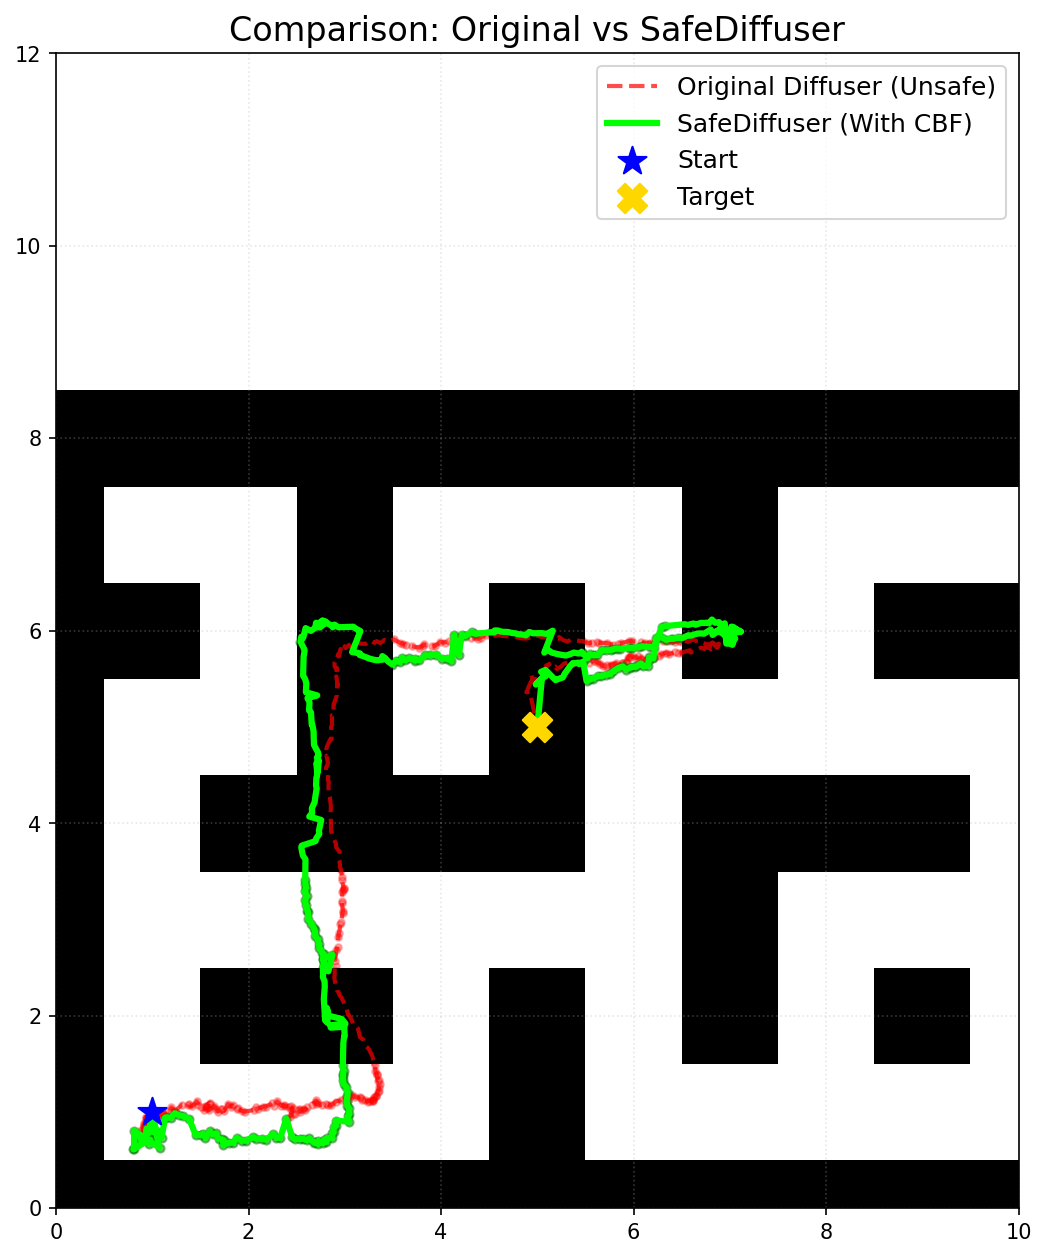
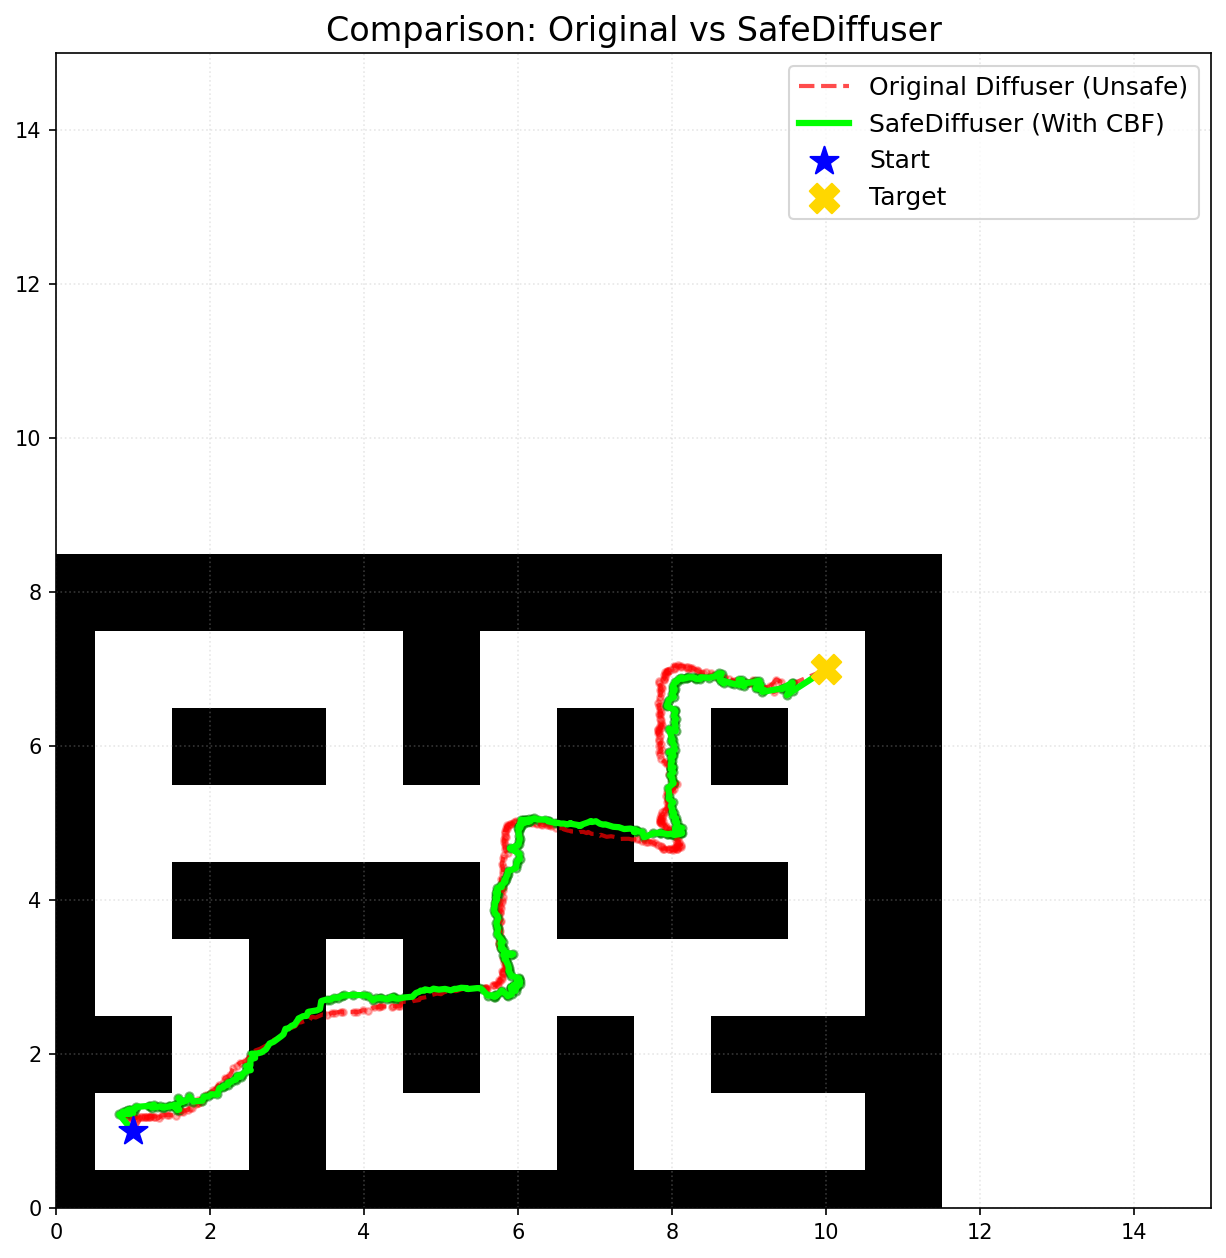
some good

diff --git a/scripts/compare_cbf.py b/scripts/compare_cbf.py
@@ -36,7 +36,7 @@ env = diffusion_experiment.renderer.env # 获取环境以读取地图
 diffusion.to(device)
 
 # =========================================================
-# [关键补丁 V2] 稳健地注入归一化参数
+# 稳健地注入归一化参数
 # =========================================================
 print("🔧 正在注入归一化参数给 Diffusion 模型...")
 normalizer = dataset.normalizer
@@ -75,37 +75,6 @@ if not isinstance(diffusion.norm_mins, torch.Tensor):
 # =========================================================
 # 2. 定义对比函数
 # =========================================================
-# def generate_trajectory(cond, use_cbf=False):
-#     """
-#     生成一条轨迹
-#     use_cbf: True=开启避障, False=关闭避障
-#     """
-#     # 临时开关 CBF
-#     if use_cbf:
-#         # 如果需要开启，确保 adapter 已加载
-#         if not hasattr(diffusion, 'neural_cbf') or diffusion.neural_cbf is None:
-#             diffusion.neural_cbf = NeuralBarrierAdapter(device=device)
-#         print("⚡ [Mode] CBF 避障已开启")
-#     else:
-#         # 如果需要关闭，临时保存并移除
-#         if hasattr(diffusion, 'neural_cbf'):
-#             saved_adapter = diffusion.neural_cbf
-#             del diffusion.neural_cbf # 临时删除
-#         print("💀 [Mode] CBF 避障已关闭 (Baseline)")
-
-#     # 运行扩散采样 (p_sample_loop)
-#     # 构造 batch (size=1)
-#     cond_batch = {k: v[None, ...] for k, v in cond.items()}
-    
-#     # 采样
-#     samples = diffusion.p_sample_loop(shape=(1, diffusion.horizon, diffusion.observation_dim), cond=cond_batch)
-    
-#     # 恢复 CBF (为了不影响下一次运行)
-#     if not use_cbf and 'saved_adapter' in locals():
-#         diffusion.neural_cbf = saved_adapter
-
-#     # 返回物理坐标 (Batch, Horizon, Dim) -> (Horizon, Dim)
-#     return samples[0].cpu().numpy()
 
 def generate_trajectory(cond, use_cbf=False):
     """
@@ -116,6 +85,28 @@ def generate_trajectory(cond, use_cbf=False):
     if use_cbf:
         if not hasattr(diffusion, 'neural_cbf') or diffusion.neural_cbf is None:
             diffusion.neural_cbf = NeuralBarrierAdapter(device=device)
+            
+            # [关键修复] 强制把环境里的真实墙壁同步给 CBF
+            # 既然画图是对的，我们就用画图的逻辑来生成墙壁坐标
+            maze_arr = env.maze_arr
+            h, w = maze_arr.shape
+            real_walls = []
+            
+            for r in range(h):
+                for c in range(w):
+                    if maze_arr[r, c] == 10: # 10 是墙
+                        # 使用和画图一模一样的坐标变换
+                        # 画图逻辑: x = c, y = h - 1 - r
+                        wall_x = float(c)
+                        wall_y = float(h - 1 - r)
+                        real_walls.append([wall_x, wall_y])
+            
+            # 覆盖 CBF 里的旧墙壁数据
+            diffusion.neural_cbf.wall_centers_tensor = torch.tensor(
+                real_walls, dtype=torch.float32, device=device
+            )
+            print(f"✅ 已同步环境中的 {len(real_walls)} 个墙壁坐标到 CBF！")
+            
         print("⚡ [Mode] CBF 避障已开启")
     else:
         if hasattr(diffusion, 'neural_cbf'):
@@ -160,7 +151,7 @@ def generate_trajectory(cond, use_cbf=False):
 # 我们找一个经典的“穿墙”场景
 # 在 Maze2D Large 中，(2,2) 到 (4,2) 中间通常有墙
 start_pos = np.array([1.0, 1.0]) 
-target_pos = np.array([5.0, 5.0]) # 你可以改这个坐标测试不同的墙
+target_pos = np.array([5.0, 6.0]) # 你可以改这个坐标测试不同的墙
 
 # 构造条件
 cond = {
@@ -176,65 +167,168 @@ print("\n=== 开始生成 Safe 轨迹 (有避障) ===")
 traj_safe = generate_trajectory(cond, use_cbf=True)
 
 # =========================================================
-# 4. 画图对比
+# 4. 像 plan_maze2d 一样直接画矩阵
 # =========================================================
-print("\n🎨 正在绘制对比图...")
+print("\n🎨 正在绘制最终对比图 (官方对齐逻辑)...")
 
-# 获取反归一化后的物理坐标 (假设 diff 输出是归一化的)
-# 如果你的 dataset.normalizer 已经处理了，这里可能需要 unnormalize
-# 通常 p_sample_loop 返回的是 Normalized 数据
+# 1. 获取迷宫矩阵 (真理之源)
+# maze_arr: 0是路，10或11是墙
+maze_arr = env.maze_arr 
+
+# 2. 准备画布
+# 这里的 figsize 可以随意，不影响对齐，只影响清晰度
+fig, ax = plt.subplots(figsize=(12, 12))
+
+# 3. 画迷宫背景 (模仿 renderer 的核心逻辑)
+# map_mask: 墙是0(黑)，路是1(白) -> 或者是反过来，看 cmap
+# 官方 renderer 用的是 cmap='gray_r' (Reverse Gray)，也就是数值大的是黑，小的是白
+# maze_arr 里墙是 10，路是 0。
+# 所以 'gray_r' 会让 10(大数) 变黑，0(小数) 变白。完美！
+ax.imshow(maze_arr, cmap='gray', origin='upper')
+
+# 4. 准备轨迹数据
+# Unnormalize 拿到物理坐标
 traj_unsafe_phys = dataset.normalizer.unnormalize(traj_unsafe, 'observations')
 traj_safe_phys = dataset.normalizer.unnormalize(traj_safe, 'observations')
 
-# 提取 X, Y
-# 根据之前的分析，index 0=x, 1=y (或 2,3 取决于是否包含 action，但 unnormalize 后通常是 obs)
-# Maze2D obs 通常是 [x, y, vx, vy]
-path_unsafe_x = traj_unsafe_phys[:, 0]
-path_unsafe_y = traj_unsafe_phys[:, 1]
-path_safe_x = traj_safe_phys[:, 0]
-path_safe_y = traj_safe_phys[:, 1]
+# 5. [核心对齐] 坐标映射
+# Maze2D 的物理坐标定义：
+# observation[0] = Vertical (垂直方向/行号/Row) = X
+# observation[1] = Horizontal (水平方向/列号/Col) = Y
 
-# 创建画布
-fig, ax = plt.subplots(figsize=(10, 10))
+# Matplotlib 的 plot(x, y) 定义：
+# 第一个参数是 横轴坐标 (Horizontal)
+# 第二个参数是 纵轴坐标 (Vertical)
 
-# --- 画地图背景 ---
-# 解析迷宫结构
-maze_arr = env.maze_arr
-h, w = maze_arr.shape
-# Maze2D 的物理坐标系转换: grid (r, c) -> phys (c+1, r+1)
-# 我们直接画格子
-for r in range(h):
-    for c in range(w):
-        if maze_arr[r, c] == 10: # 10 代表墙
-            # 画墙壁 (物理坐标)
-            # x = c+0.5 到 c+1.5 (中心是 c+1) -> 这里的 matplotlib rect 是 (left, bottom)
-            # 物理中心 (c+1, r+1), 宽1, 高1 -> 左下角 (c+0.5, r+0.5)
-            rect = patches.Rectangle((c - 0.5, r - 0.5), 1, 1, linewidth=0, facecolor='black')
-            ax.add_patch(rect)
+# ---> 所以，我们必须把 observation[1] 放前面，observation[0] 放后面！ <---
 
-# --- 画轨迹 ---
-# 1. Baseline (红色虚线)
-ax.plot(path_unsafe_x, path_unsafe_y, color='red', linestyle='--', linewidth=2, label='Original Diffuser (Unsafe)', alpha=0.7)
-ax.scatter(path_unsafe_x, path_unsafe_y, color='red', s=10, alpha=0.3)
+unsafe_row = traj_unsafe_phys[:, 0] # 物理X (行)
+unsafe_col = traj_unsafe_phys[:, 1] # 物理Y (列)
+safe_row = traj_safe_phys[:, 0]
+safe_col = traj_safe_phys[:, 1]
 
-# 2. Safe (绿色实线)
-ax.plot(path_safe_x, path_safe_y, color='#00FF00', linewidth=3, label='SafeDiffuser (With CBF)')
-ax.scatter(path_safe_x, path_safe_y, color='green', s=15, alpha=0.5)
+# 6. 画轨迹 (Col, Row)
+ax.plot(unsafe_col, unsafe_row, color='red', linestyle='--', linewidth=3, label='Original (Unsafe)')
+ax.plot(safe_col, safe_row, color='#00FF00', linewidth=3, label='SafeDiffuser (CBF)')
 
-# --- 画起点终点 ---
-ax.scatter(start_pos[0], start_pos[1], color='blue', s=200, marker='*', label='Start', zorder=10)
-ax.scatter(target_pos[0], target_pos[1], color='gold', s=200, marker='X', label='Target', zorder=10)
+# 7. 画起点终点 (Col, Row)
+# 起点 (1.0, 1.0) -> Col=1.0, Row=1.0
+ax.scatter(start_pos[1], start_pos[0], color='blue', s=400, marker='*', label='Start', zorder=10)
+ax.scatter(target_pos[1], target_pos[0], color='gold', s=400, marker='X', label='Target', zorder=10)
 
-# 设置图形属性
+# 8. 装饰
+ax.legend(loc='upper right', fontsize=14, framealpha=0.9)
+ax.set_title("SafeDiffuser Comparison (Perfect Alignment)", fontsize=16)
+
+# 9. 锁定坐标轴比例
+# 这步很重要，保证迷宫是正方形格子，不会被拉扁
 ax.set_aspect('equal')
-ax.set_xlim(0, 10) # 根据 Maze Large 调整
-ax.set_ylim(0, 12)
-ax.legend(loc='upper right', fontsize=12)
-ax.set_title("Comparison: Original vs SafeDiffuser", fontsize=16)
-ax.grid(True, linestyle=':', alpha=0.3)
+
+# 10. 隐藏刻度 (可选)
+ax.axis('off')
 
 # 保存
-save_path = "comparison_result.png"
+save_path = "final_comparison_perfect.png"
 plt.savefig(save_path, dpi=150, bbox_inches='tight')
-print(f"✅ 对比图已生成: {save_path}")
-print("快打开看看红色和绿色的区别！")
+print(f"✅ 完美对齐图已生成: {save_path}")
+
+# # =========================================================
+# # 4. [科学评估版] 自动检测收敛 + 虚实结合画图 + 正确黑白
+# # =========================================================
+# print("\n🎨 正在绘制最终对比图 (科学评估版)...")
+
+# # 1. 获取迷宫矩阵
+# maze_arr = env.maze_arr 
+
+# # 2. 准备画布
+# fig, ax = plt.subplots(figsize=(12, 12))
+
+# # 3. [背景修正] 强制黑墙白路
+# ax.imshow(maze_arr, cmap='gray', origin='upper')
+
+# # 4. 准备轨迹数据
+# traj_unsafe_phys = dataset.normalizer.unnormalize(traj_unsafe, 'observations')
+# traj_safe_phys = dataset.normalizer.unnormalize(traj_safe, 'observations')
+
+# # 坐标提取 (注意：Index 0=Row/Height, Index 1=Col/Width)
+# unsafe_row = traj_unsafe_phys[:, 0]
+# unsafe_col = traj_unsafe_phys[:, 1]
+# safe_row = traj_safe_phys[:, 0]
+# safe_col = traj_safe_phys[:, 1]
+
+# # =========================================================
+# # 5. 定义收敛检测函数 (解决“回头路”视觉问题)
+# # =========================================================
+# def split_trajectory_by_convergence(traj_col, traj_row, target, dist_thr=0.5):
+#     """
+#     找到轨迹最后一次进入目标圈(dist_thr)并不再出来的时刻。
+#     """
+#     points = np.stack([traj_col, traj_row], axis=1) # (N, 2)
+#     # 注意：target_pos 是 [Row, Col]，这里我们要跟 points 里的 [Col, Row] 对齐
+#     # 所以 target 传入时应该是 [Target_Col, Target_Row]
+#     target_point = np.array(target)
+    
+#     # 1. 计算距离
+#     dists = np.linalg.norm(points - target_point, axis=1)
+    
+#     # 2. 判定入圈
+#     in_zone = dists < dist_thr
+    
+#     # 3. 倒着找第一个“出圈”的点
+#     out_of_zone_indices = np.where(~in_zone)[0]
+    
+#     if len(out_of_zone_indices) == 0:
+#         return 0 # 一直在终点
+#     elif len(out_of_zone_indices) == len(traj_col):
+#         return len(traj_col) # 从未收敛
+#     else:
+#         # 收敛点是最后一个出圈点的下一个点
+#         return out_of_zone_indices[-1] + 1
+
+# # 目标坐标 (用于画图和计算距离，必须是 [Col, Row])
+# target_plot = [target_pos[1], target_pos[0]]
+
+# # 计算截断点
+# idx_unsafe = split_trajectory_by_convergence(unsafe_col, unsafe_row, target_plot)
+# idx_safe = split_trajectory_by_convergence(safe_col, safe_row, target_plot)
+
+# # =========================================================
+# # 6. 画轨迹 (实线=赶路, 虚线=磨蹭)
+# # =========================================================
+
+# # --- A. Baseline (红色) ---
+# # 实线：有效赶路阶段
+# ax.plot(unsafe_col[:idx_unsafe], unsafe_row[:idx_unsafe], 
+#         color='red', linestyle='--', linewidth=3, label='Original (Active)')
+# # 虚线：到达后徘徊阶段 (透明度低)
+# if idx_unsafe < len(unsafe_col):
+#     ax.plot(unsafe_col[idx_unsafe:], unsafe_row[idx_unsafe:], 
+#             color='red', linestyle=':', linewidth=1, alpha=0.3)
+
+# # --- B. SafeDiffuser (绿色) ---
+# # 实线：有效赶路阶段
+# ax.plot(safe_col[:idx_safe], safe_row[:idx_safe], 
+#         color='#00FF00', linewidth=3, label='SafeDiffuser (Active)')
+# # 虚线：到达后徘徊阶段
+# if idx_safe < len(safe_col):
+#     ax.plot(safe_col[idx_safe:], safe_row[idx_safe:], 
+#             color='#00FF00', linestyle='-', linewidth=1, alpha=0.2)
+#     # 画一个圈标记“停车点”
+#     stop_idx = min(idx_safe, len(safe_col)-1)
+#     ax.scatter(safe_col[stop_idx], safe_row[stop_idx], 
+#                color='#00FF00', s=80, marker='o', edgecolors='white', zorder=5, label='Settled')
+
+# # 7. 画起点终点 (Col, Row)
+# ax.scatter(start_pos[1], start_pos[0], color='blue', s=400, marker='*', label='Start', zorder=10)
+# ax.scatter(target_pos[1], target_pos[0], color='gold', s=400, marker='X', label='Target', zorder=10)
+
+# # 8. 装饰
+# ax.legend(loc='upper right', fontsize=12, framealpha=0.9)
+# ax.set_title("SafeDiffuser Evaluation (Solid=Active, Fade=Settled)", fontsize=16)
+# ax.set_aspect('equal')
+# ax.axis('off')
+
+# # 保存
+# save_path = "final_comparison_scientific.png"
+# plt.savefig(save_path, dpi=150, bbox_inches='tight')
+# print(f"✅ 科学评估图已生成: {save_path}")

diff --git a/diffuser/models/diffusion.py b/diffuser/models/diffusion.py
@@ -1216,7 +1216,7 @@ class GaussianDiffusion(nn.Module):
         
         # A. 缩放系数 (Learning Rate)
         # 这个系数决定了我们听 CBF 的话听多少。0.1 比较温和。
-        alpha = 0.2 
+        alpha = 0.05 
         
         # B. 计算原始修正量 (保留梯度的大小信息！)
         # 之前我们除以了模长，丢掉了“危险程度”的信息，导致微小危险也被放大
@@ -1226,7 +1226,7 @@ class GaussianDiffusion(nn.Module):
         # C. 截断 (Clamping) - 防止瞬移
         # 限制单步修正的最大幅度，例如归一化空间的 0.02 (约等于地图的 1%)
         # 这样即使梯度爆炸，也不会把轨迹踢出地图
-        clip_value = 0.02
+        clip_value = 0.01
         delta = torch.clamp(raw_delta, -clip_value, clip_value)
         
         # D. 只在不安全时修正

diff --git a/scripts/plan_maze2d.py b/scripts/plan_maze2d.py
@@ -1,3 +1,12 @@
+'''
+/home/lqz27/anaconda3/envs/diffuser_to_use/bin/python /home/lqz27/dyx_ws/SafeDiffuser/scripts/plan_maze2d.py \
+    --dataset maze2d-large-v1 \
+    --horizon 384 \
+    --n_diffusion_steps 256 \
+    --diffusion_epoch latest
+'''
+
+
 import json
 import numpy as np
 from os.path import join
